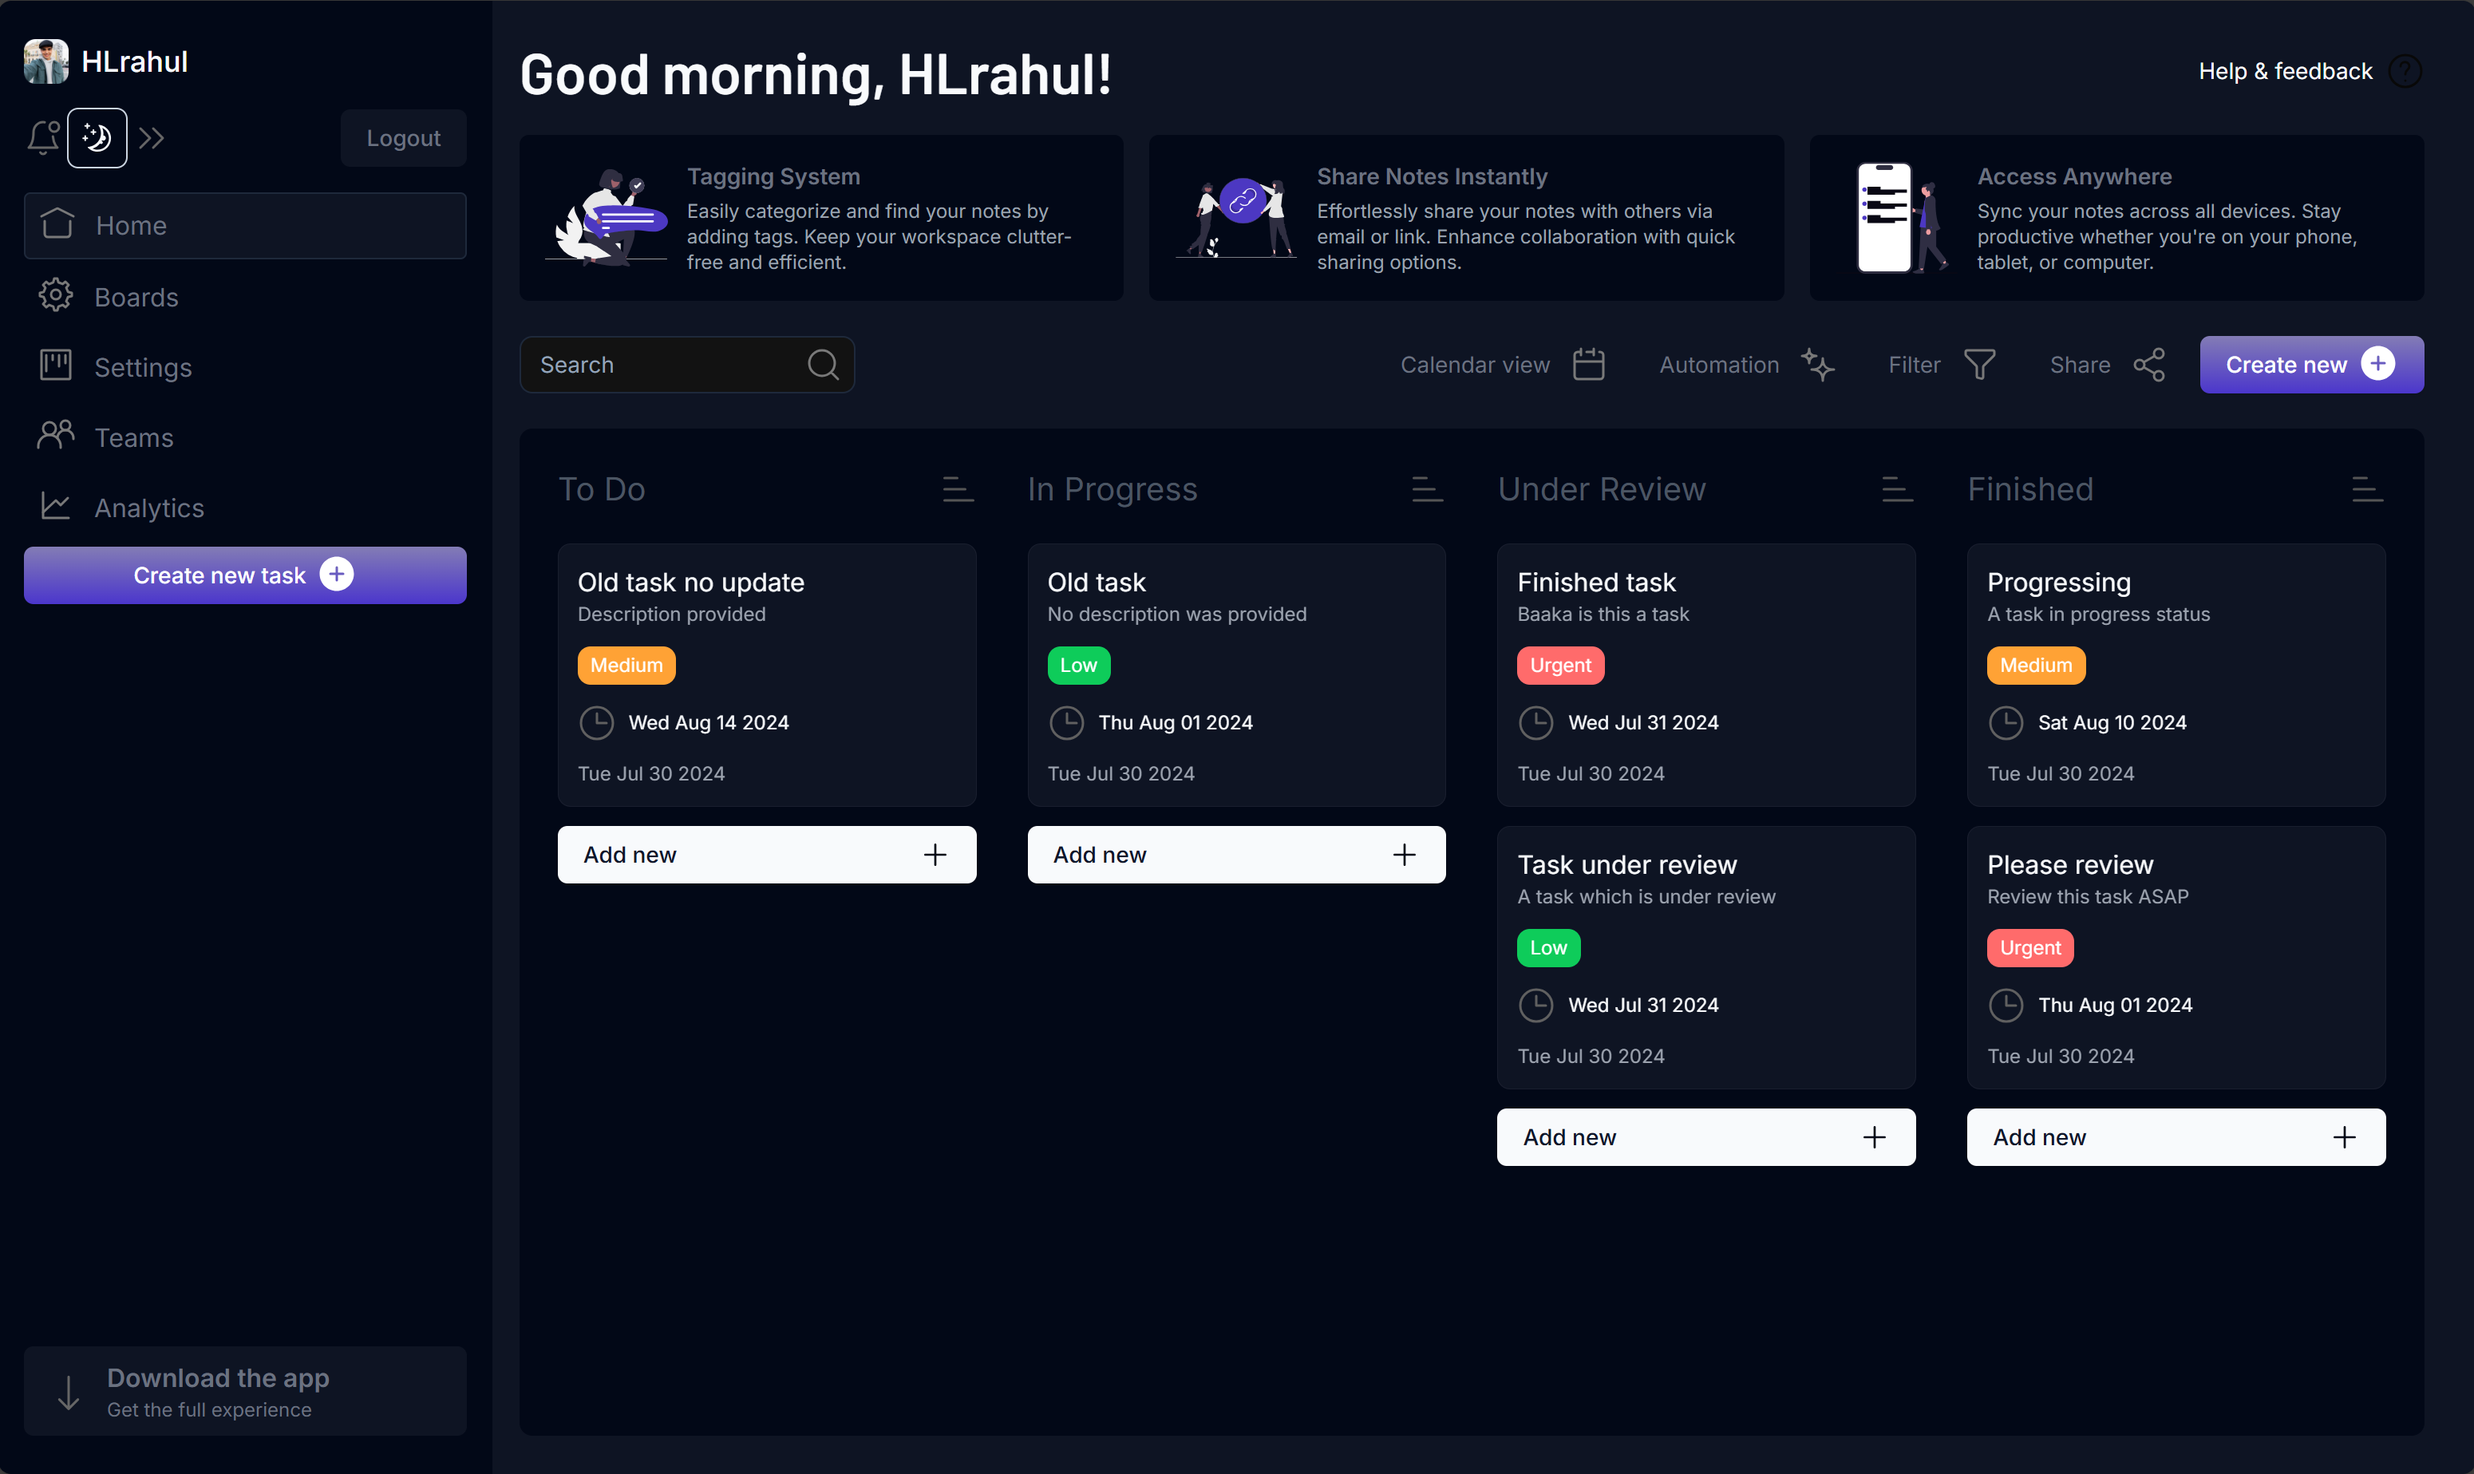
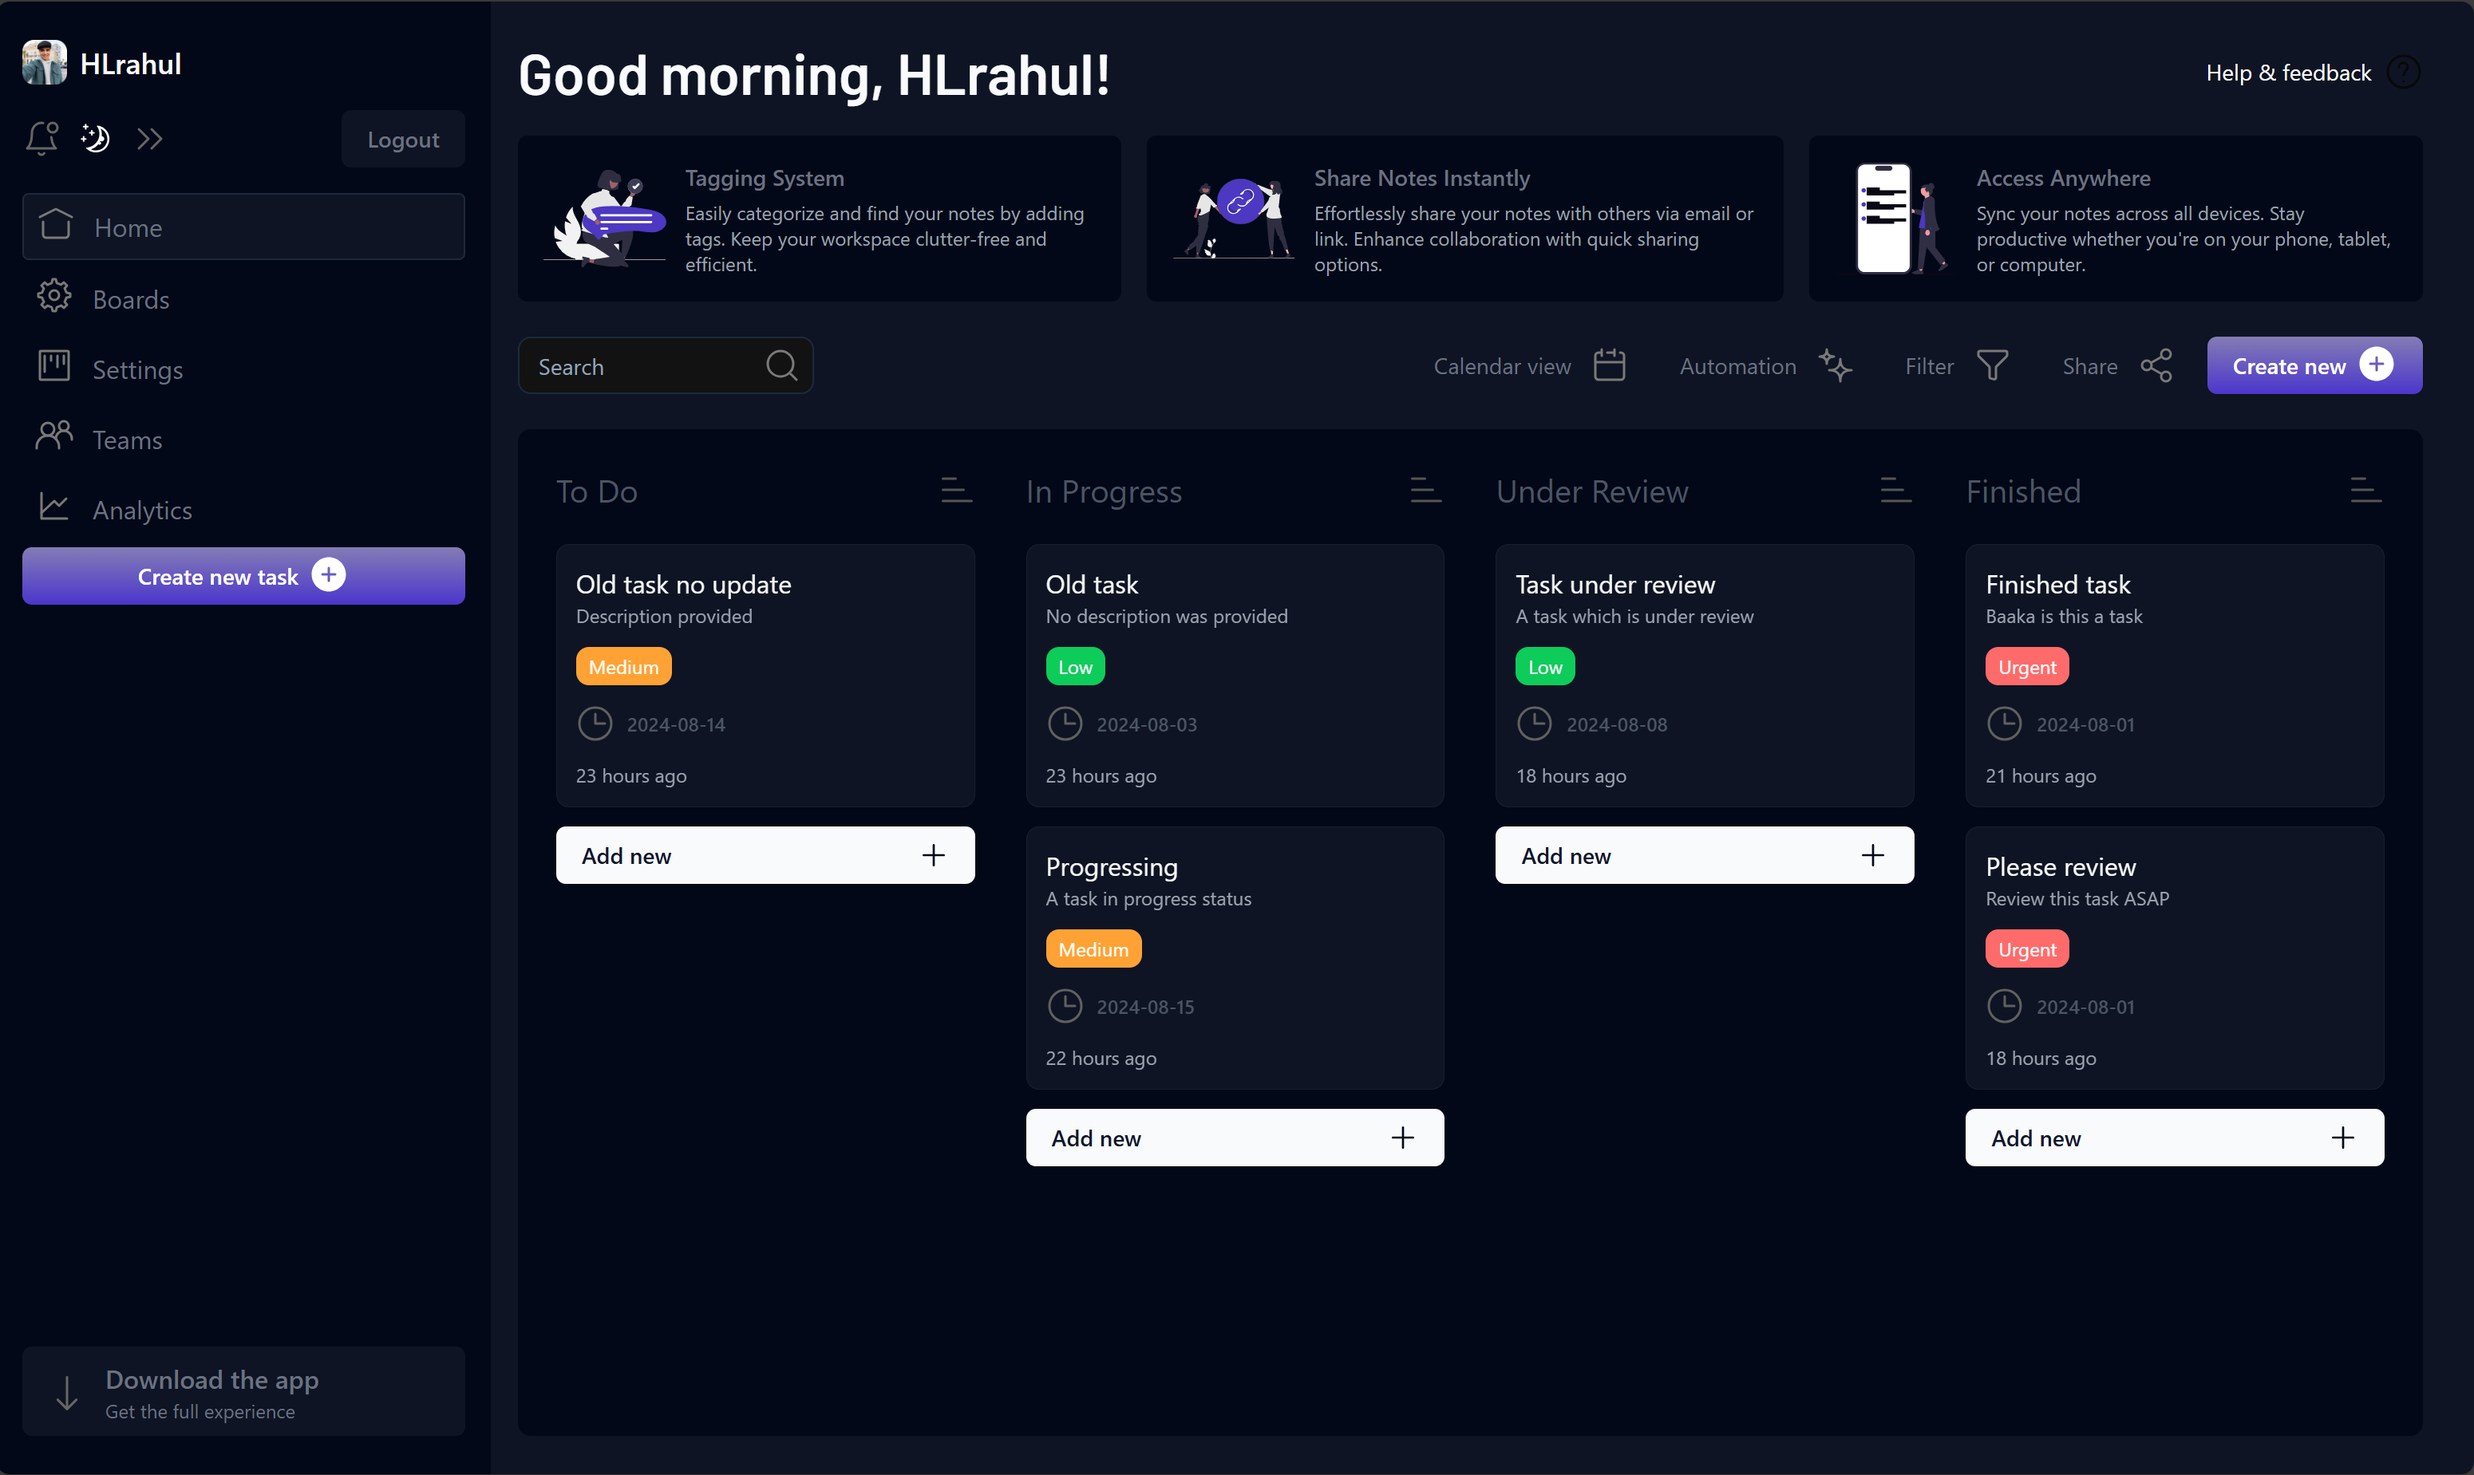
fix: change date format in ui

diff --git a/client/components/dashboard/kanban/task-card.tsx b/client/components/dashboard/kanban/task-card.tsx
@@ -1,6 +1,7 @@
 import { useState } from "react";
 import { CSS } from "@dnd-kit/utilities";
 import { useDraggable } from "@dnd-kit/core";
+import { formatDistanceToNowStrict } from "date-fns";
 
 import {
   LowPriorityTag,
@@ -74,7 +75,7 @@ export default function TaskCard({
           )}
           {created_at && (
             <p className="text-gray-400 text-xs">
-              {created_at.toLocaleDateString("en-CA")}
+              {formatDistanceToNowStrict(new Date(created_at), { addSuffix: true })}
             </p>
           )}
         </div>
